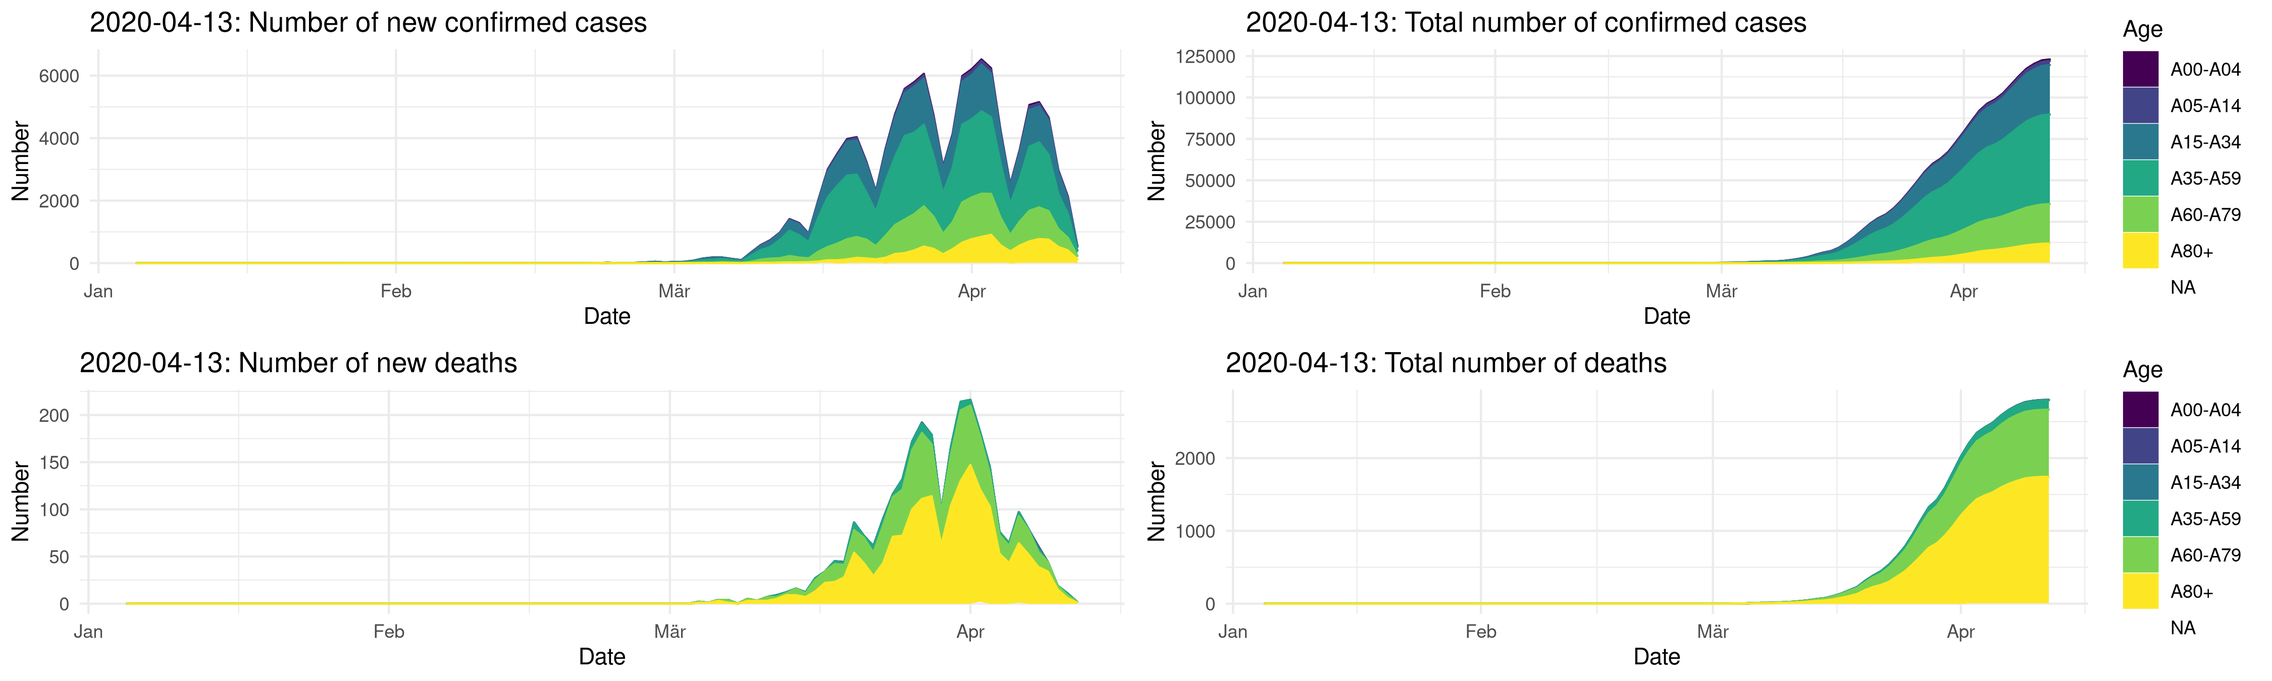
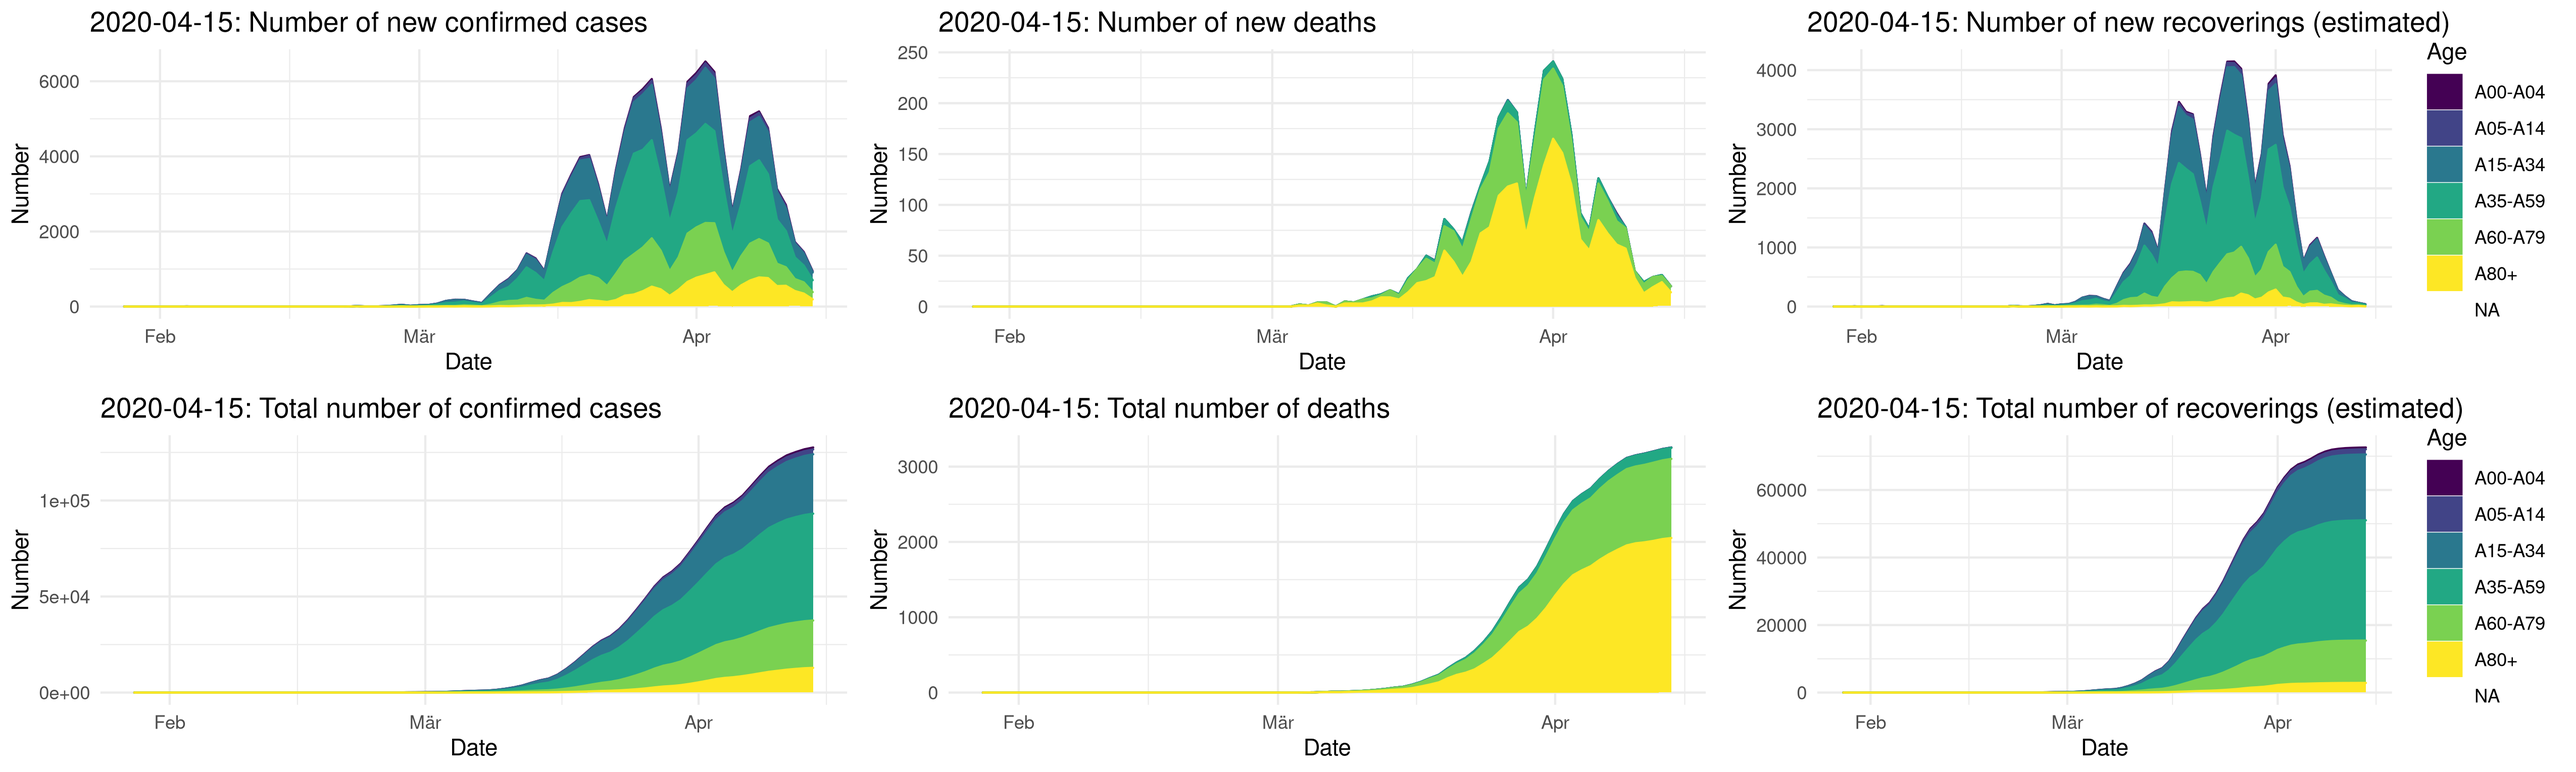
update of README

diff --git a/README.md b/README.md
@@ -50,31 +50,32 @@ Robert Koch Institut.
 
 Data format: tibble/data.frame with one row per spatial unit
 (“Landkreis”), date and age group, with daily notifications of cases
-(“NumberNewTestedIll”) and deaths (“NumberNewDead”).
+(“NumberNewTestedIll”), deaths (“NumberNewDead”) and an estimation of
+the recovered cases (“NumberNewRecovered”).
 
-| ObjectId | Date       | IdBundesland | Bundesland    | IdLandkreis | Landkreis | Age     | Gender | NumberNewTestedIll | NumberNewDead |
-| -------: | :--------- | -----------: | :------------ | ----------: | :-------- | :------ | :----- | -----------------: | ------------: |
-|   404635 | 2020-03-19 |            3 | Niedersachsen |        3157 | LK Peine  | A35-A59 | M      |                  2 |             0 |
-|   404636 | 2020-03-20 |            3 | Niedersachsen |        3157 | LK Peine  | A35-A59 | M      |                  1 |             0 |
-|   404637 | 2020-03-21 |            3 | Niedersachsen |        3157 | LK Peine  | A35-A59 | M      |                  2 |             0 |
+| Version    | Date       | IdBundesland | Bundesland | IdLandkreis | Landkreis           | Age     | Gender | NumberNewTestedIll | NumberNewDead | NumberNewRecovered |
+| :--------- | :--------- | -----------: | :--------- | ----------: | :------------------ | :------ | :----- | -----------------: | ------------: | -----------------: |
+| 2020-04-15 | 2020-01-28 |            9 | Bayern     |        9181 | LK Landsberg a.Lech | A15-A34 | M      |                  1 |             0 |                  1 |
+| 2020-04-15 | 2020-01-28 |            9 | Bayern     |        9188 | LK Starnberg        | A35-A59 | M      |                  1 |             0 |                  1 |
+| 2020-04-15 | 2020-01-29 |            9 | Bayern     |        9162 | SK München          | A15-A34 | W      |                  1 |             0 |                  1 |
 
 You can convert this RKI data to daily timeseries for federal states
 (Bundesland), administrative districts (Landkreis), gender (Gender)
 and/or age (Age). It’s possible to group by muliple of these at once.
 
-    covid19germany::group_RKI_timeseries(data, "Bundesland" | "Landkreis" | "Gender" | "Age")
+    covid19germany::group_RKI_timeseries(data, Bundesland | Landkreis | Gender | Age)
 
-Data format: tibble/data.frame with a time series of cases, deaths,
-cumulative cases and cumulative deaths. One row per day and grouping
-unit. Days are continuous, without gaps. All time series start at
-2020-01-28, and go up to the current date (last update by RKI).
-`covid19germany::group_RKI_timeseries(data, "Bundesland")`:
+Data format: tibble/data.frame with a time series of cases, deaths and
+recoverings. One row per day and grouping unit. Days are continuous,
+without gaps. All time series start at 2020-01-28, and go up to the
+current date (last update by RKI).
+`covid19germany::group_RKI_timeseries(data)`:
 
-| Bundesland        | Date       | NumberNewTestedIll | NumberNewDead | CumNumberTestedIll | CumNumberDead | IdBundesland |
-| :---------------- | :--------- | -----------------: | ------------: | -----------------: | ------------: | -----------: |
-| Baden-Württemberg | 2020-01-24 |                  1 |             0 |                  1 |             0 |            8 |
-| Baden-Württemberg | 2020-01-25 |                  0 |             0 |                  1 |             0 |            8 |
-| Baden-Württemberg | 2020-01-26 |                  0 |             0 |                  1 |             0 |            8 |
+| Date       | NumberNewTestedIll | NumberNewDead | NumberNewRecovered | CumNumberTestedIll | CumNumberDead | CumNumberRecovered |
+| :--------- | -----------------: | ------------: | -----------------: | -----------------: | ------------: | -----------------: |
+| 2020-04-12 |               1721 |            29 |                 89 |             125192 |          3203 |              72480 |
+| 2020-04-13 |               1454 |            31 |                 63 |             126646 |          3234 |              72543 |
+| 2020-04-14 |                938 |            20 |                 39 |             127584 |          3254 |              72582 |
 
 ### RKI spatial
 
